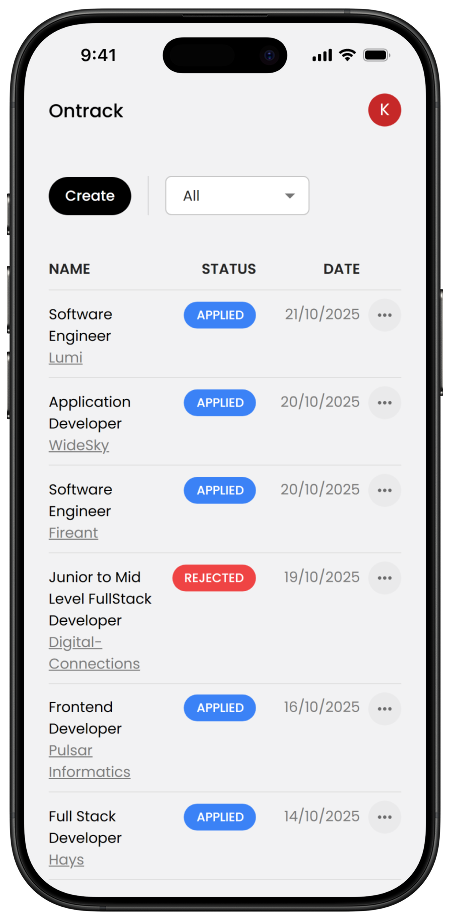
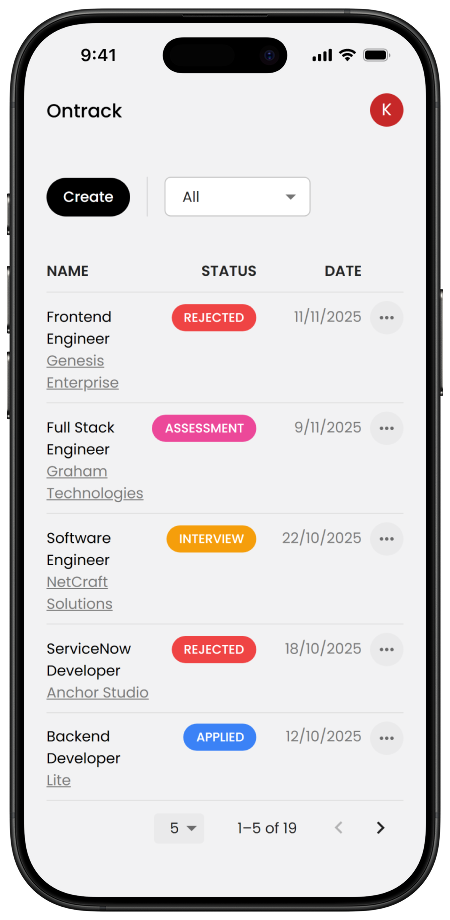
ui change

diff --git a/src/pages/Home.tsx b/src/pages/Home.tsx
@@ -30,10 +30,10 @@ export default function Home() {
         height: "100dvh",
         overflowY: "auto",
         overflowX: "hidden",
-        padding: 3,
+        background: "#f2f2f3",
       }}
     >
-      <Box mb={6}>
+      <Box padding={3} mb={1} sx={{ background: "#fff" }}>
         <Typography variant="h1" mb={1} fontSize={36} fontWeight={500}>
           Ontrack
         </Typography>
@@ -42,7 +42,12 @@ export default function Home() {
           manage every application in one place.
         </Typography>
       </Box>
-      <Box display="flex" justifyItems="center" justifyContent="space-between">
+      <Box
+        display="flex"
+        justifyItems="center"
+        justifyContent="space-between"
+        padding={3}
+      >
         <Box
           width="100%"
           display="flex"
@@ -70,7 +75,7 @@ export default function Home() {
             initial={{ x: "100%" }}
             animate={{ x: "0" }}
           >
-            <Box width={{ xs: "100%", sm: "100%", md: "300px", lg: "300px" }}>
+            <Box width={{ xs: "100%", sm: "100%", md: "315px", lg: "315px" }}>
               <Box
                 component="img"
                 justifySelf="center"
